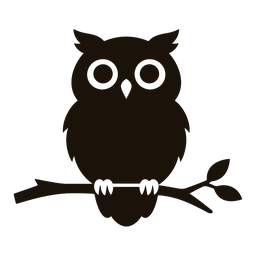
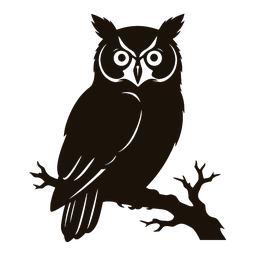
偵察の梟を Gemini の切り絵の絵に差し替え、画風の見本に決める
Claude-Session: https://claude.ai/code/session_014sLfAAx4otK2TQammgEZ6R

diff --git a/art/PROMPTS.md b/art/PROMPTS.md
@@ -12,6 +12,24 @@
 - 白く抜きたいところ（目・模様など）は、白い地がそのまま抜けるように描かせる
 - ファイル名は下の表の **ID**（例：`oiuchi.png`）。名前が違っても、どの札か書いてくれれば合わせる
 
+## 画風の見本（決まった）
+
+**偵察の梟（`art/raw/teisatsu.png`、Gemini で作成）を全部の札の画風の見本にする。** 切り絵のような鋭い彫りがあり、体の大部分は黒く塗りつぶし、白い彫りは目と大きな羽の切れ込みなど数本だけ。手札の小さい札（幅6〜7mm）でも形が分かる細かさにとどめる。
+
+最初に作った細かい彫りの多い版は、手札の大きさだと白い彫りが潰れて灰色のかたまりに見えたので、「彫りを少なく、太く」で作り直した。
+
+### Gemini で残りを作る手順
+1. 新しいチャットで、見本の梟の画像を貼る
+2. 次の文に、下の表の「絵の中身」を入れて送る
+
+```
+この梟と同じ切り絵の画風で、別の絵を作ってください。
+描くもの：（ここに絵の中身）
+・体の大部分は黒く塗りつぶし、白い彫りは太いものを数本だけ
+・白い背景に黒一色。紙の写真ではなく平らな画像で、紙の縁や影は入れない
+・文字や枠は入れない。正方形で、真ん中に置いてまわりに少し余白
+```
+
 ## 共通の書き方（全部の指示文の後ろに付ける）
 
 画風をそろえるため、どの札の指示文にも、後ろにこれを付ける。
@@ -115,4 +133,4 @@ color, colorful, gray, gradient, shading, ground shadow, text, letters, watermar
 
 広告収入を目指すので、**使った画像生成サービスの規約で、商用利用が認められているか**を確かめてから使う。有料プランでないと商用不可のサービスもある。どのサービスで作ったかは、ここに書いておく。
 
-- 使ったサービス：（未記入）
+- 使ったサービス：Google Gemini（偵察の梟）。商用利用の可否は Gemini の利用規約で確かめること（未確認）
